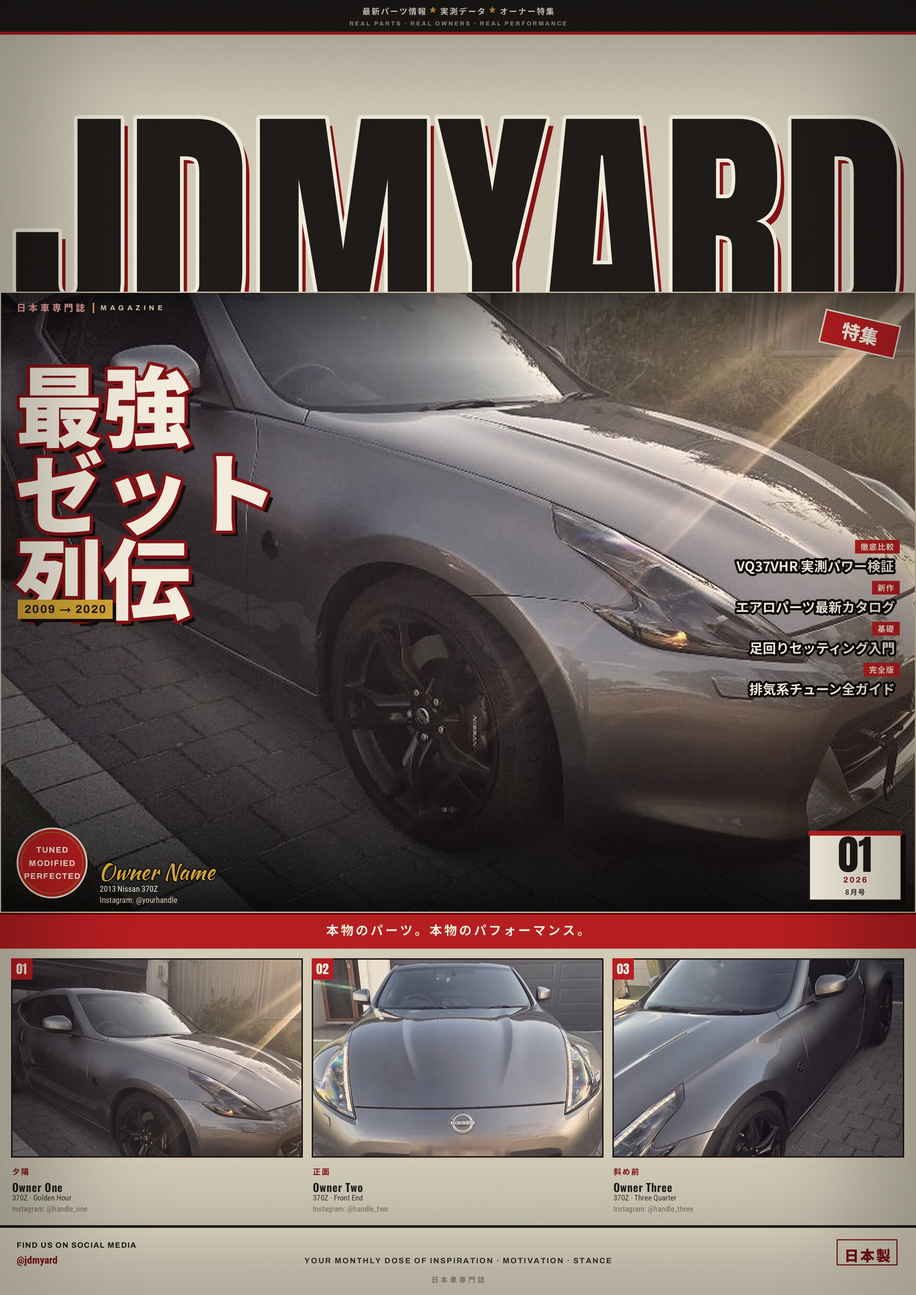
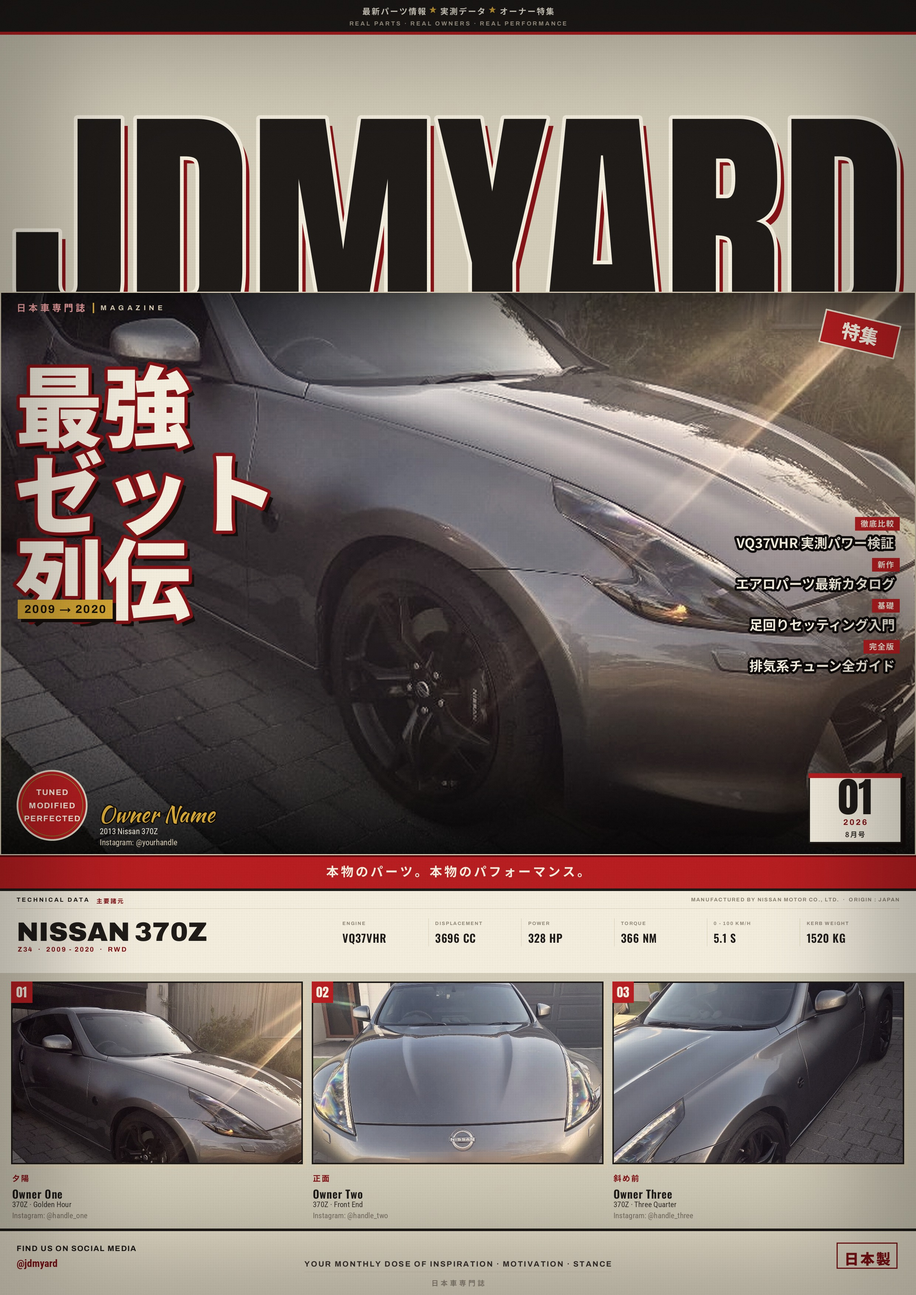
Poster: add car identity and technical data band
Restores the vehicle information that was only on the spec sheet, as a band
between the red banner and the owner cards:

- NISSAN 370Z set large in Archivo Black, with Z34 / 2009-2020 / RWD beneath
- Six ruled spec cells: engine, displacement, power, torque, 0-100, weight
- TECHNICAL DATA / 主要諸元 header and the manufacturer / origin line

Also adds per-image contrast and exposure trim in load(). Card 01 is the sun
flare shot and was visibly hazier and flatter than the two clean shots, so the
card row read unevenly; it now carries contrast 1.20 / exposure 0.94.

Hero and card heights trimmed slightly to make room for the band.

diff --git a/jdmyard/poster.py b/jdmyard/poster.py
@@ -67,6 +67,23 @@ COVER_LINES = [
 
 RED_BANNER = "本物のパーツ。本物のパフォーマンス。"
 
+# ---- car identity + technical data band
+MODEL = "NISSAN 370Z"
+MODEL_SUB = "Z34  ·  2009 - 2020  ·  RWD"
+META_LINE = "MANUFACTURED BY NISSAN MOTOR CO., LTD.  ·  ORIGIN : JAPAN"
+BAND_TITLE = "TECHNICAL DATA"
+BAND_TITLE_JP = "主要諸元"
+
+# Commonly cited Z34 figures - verify against the actual car before printing.
+SPEC_CELLS = [
+    ("ENGINE", "VQ37VHR"),
+    ("DISPLACEMENT", "3696 CC"),
+    ("POWER", "328 HP"),
+    ("TORQUE", "366 NM"),
+    ("0 - 100 KM/H", "5.1 S"),
+    ("KERB WEIGHT", "1520 KG"),
+]
+
 ISSUE_NO = "01"
 ISSUE_YEAR = "2026"
 ISSUE_MONTH = "AUGUST"
@@ -86,7 +103,7 @@ CARDS = [
     # roofline - a tight mid-car crop looked like a duplicate of card 03.
     dict(src="7.jpg", idx="01", jp="夕陽", name="Owner One",
          car="370Z · Golden Hour", ig="@handle_one",
-         bias_y=0.26, zoom=1.06, plate=None),
+         bias_y=0.26, zoom=1.06, plate=None, contrast=1.20, expo=0.94),
     dict(src="8.jpg", idx="02", jp="正面", name="Owner Two",
          car="370Z · Front End", ig="@handle_two",
          bias_y=0.40, zoom=1.06, plate=PLATE_8),
@@ -225,6 +242,12 @@ def load(spec, tw, th, grade=True):
     img = img.crop((left, top, left + tw, top + th))
     if grade:
         img = vintage_grade(img)
+    # per-image tone trim - the flare shot needs the haze cut so the card row
+    # reads evenly against the two clean shots
+    if spec.get("contrast", 1.0) != 1.0:
+        img = ImageEnhance.Contrast(img).enhance(spec["contrast"])
+    if spec.get("expo", 1.0) != 1.0:
+        img = ImageEnhance.Brightness(img).enhance(spec["expo"])
     return img, True
 
 
@@ -294,17 +317,19 @@ def build_poster():
     d = ImageDraw.Draw(canvas)
 
     # ---------------- geometry (bottom-up, so nothing can leave dead space)
-    foot_h = s(126)
-    cards_pad, card_img_h, card_txt_h = s(18), s(360), s(104)
+    foot_h = s(120)
+    cards_pad, card_img_h, card_txt_h = s(16), s(330), s(100)
     cards_block = cards_pad * 2 + card_img_h + card_txt_h
-    banner_h = s(64)
+    band_h = s(152)
+    banner_h = s(60)
 
     strip_h = s(62)
     mast_top = strip_h + s(10)
 
     foot_top = H - foot_h
     cards_top = foot_top - cards_block
-    banner_top = cards_top - banner_h
+    band_top = cards_top - band_h
+    banner_top = band_top - banner_h
     hero_bot = banner_top
 
     # ================================================ TOP STRIP
@@ -477,6 +502,54 @@ def build_poster():
     bb = d.textbbox((0, 0), RED_BANNER, font=f_bn)
     track(d, ((W - bw2) / 2, banner_top + (banner_h - (bb[3] - bb[1])) / 2 - bb[1]),
           RED_BANNER, f_bn, CREAM_L, spacing=s(4))
+
+    # ================================================ CAR + TECHNICAL BAND
+    # Car identity on the left, spec figures ruled off to the right. This is
+    # the information that was carried on the spec sheet.
+    d.rectangle([0, band_top, W, band_top + band_h], fill=CREAM_L)
+    d.rectangle([0, band_top, W, band_top + s(4)], fill=INK)
+
+    bx = s(30)
+    # header row
+    f_bt = arch(11, "Bold")
+    track(d, (bx, band_top + s(14)), BAND_TITLE, f_bt, INK, spacing=s(2.4))
+    btw = track_w(d, BAND_TITLE, f_bt, s(2.4))
+    track(d, (bx + btw + s(14), band_top + s(14)), BAND_TITLE_JP, njp(11),
+          RED_D, spacing=s(2))
+    f_ml = arch(9.5, "Bold")
+    mlw = track_w(d, META_LINE, f_ml, s(1.4))
+    track(d, (W - s(30) - mlw, band_top + s(15)), META_LINE, f_ml,
+          (140, 130, 116), spacing=s(1.4))
+    d.line([(bx, band_top + s(36)), (W - s(30), band_top + s(36))],
+           fill=CREAM_D, width=max(1, s(1)))
+
+    # model name, left
+    name_w = int(W * 0.34)
+    msize = s(48)
+    while msize > s(20) and font(ARCHIVO, msize, "Black").getlength(MODEL) > name_w:
+        msize -= s(1)
+    f_model = font(ARCHIVO, msize, "Black")
+    d.text((bx, band_top + s(52)), MODEL, font=f_model, fill=INK)
+    mbb = d.textbbox((bx, band_top + s(52)), MODEL, font=f_model)
+    track(d, (bx + s(2), mbb[3] + s(8)), MODEL_SUB, arch(12, "Bold"), RED_D,
+          spacing=s(2))
+
+    # spec cells, right
+    cells_x = bx + name_w + s(26)
+    cells_w = W - s(30) - cells_x
+    n_cells = len(SPEC_CELLS)
+    cell_w = cells_w / n_cells
+    f_ck = arch(9, "Bold")
+    f_cv = osw(20, "SemiBold")
+    for i, (k, v) in enumerate(SPEC_CELLS):
+        cxx = cells_x + cell_w * i
+        track(d, (cxx, band_top + s(58)), k, f_ck, (146, 136, 122),
+              spacing=s(1.3))
+        track(d, (cxx, band_top + s(74)), v, f_cv, INK, spacing=s(0.4))
+        if i < n_cells - 1:
+            d.line([(cxx + cell_w - s(12), band_top + s(54)),
+                    (cxx + cell_w - s(12), band_top + s(104))],
+                   fill=CREAM_D, width=max(1, s(1)))
 
     # ================================================ OWNER CARDS
     pad = s(20)
